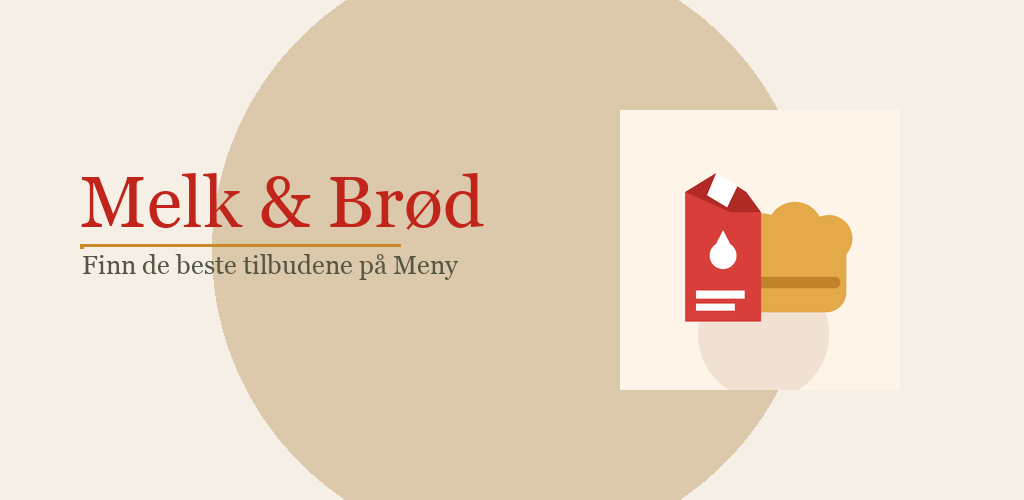
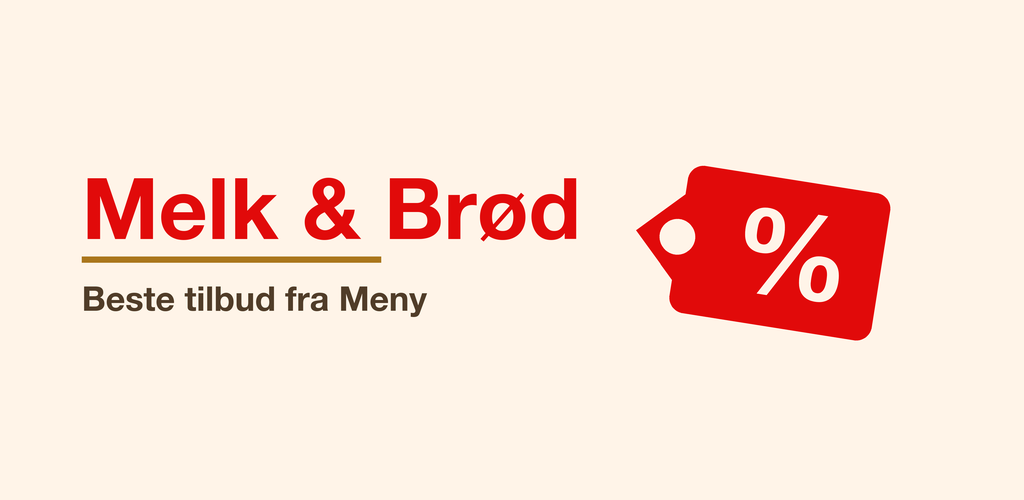
Regenerate Play Store feature graphic with new tag branding

diff --git a/scripts/gen_icon.py b/scripts/gen_icon.py
@@ -20,6 +20,7 @@ OUT_ANDROID_FG = "assets/images/android-icon-foreground.png"
 OUT_ANDROID_BG = "assets/images/android-icon-background.png"
 OUT_ANDROID_MONO = "assets/images/android-icon-monochrome.png"
 OUT_SPLASH = "assets/images/splash-icon.png"
+OUT_FEATURE = "assets/images/feature-graphic.png"
 
 RED      = (225, 10, 10)
 WHITE    = (255, 255, 255)
@@ -145,4 +146,49 @@ splash = Image.new("RGBA", (SIZE, SIZE), (0, 0, 0, 0))
 paste_centered(splash, build_tag_alpha(SIZE, color=RED))
 save_downsampled(splash, OUT_SPLASH, mode="RGBA")
 
-print(f"Saved:\n  {OUT}\n  {OUT_512}\n  {OUT_ANDROID_FG}\n  {OUT_ANDROID_BG}\n  {OUT_ANDROID_MONO}\n  {OUT_SPLASH}")
+# 6. Play Store feature graphic (1024 × 500). Cream bg, title left, red tag right.
+FG_W = 1024
+FG_H = 500
+FG_SCALE = 4
+FG_SIZE = FG_H * FG_SCALE  # work at 4x for crisp edges
+feature_full = Image.new("RGBA", (FG_W * FG_SCALE, FG_H * FG_SCALE), (255, 244, 232, 255))
+fdraw = ImageDraw.Draw(feature_full)
+
+title_font = get_font(int(FG_H * 0.17 * FG_SCALE))
+tagline_font = get_font(int(FG_H * 0.068 * FG_SCALE))
+
+title = "Melk & Brød"
+tagline = "Beste tilbud fra Meny"
+
+title_bbox = fdraw.textbbox((0, 0), title, font=title_font)
+title_w = title_bbox[2] - title_bbox[0]
+title_h = title_bbox[3] - title_bbox[1]
+
+tagline_bbox = fdraw.textbbox((0, 0), tagline, font=tagline_font)
+tagline_h = tagline_bbox[3] - tagline_bbox[1]
+
+text_x = int(FG_W * 0.08 * FG_SCALE)
+text_block_h = title_h + int(FG_H * 0.10 * FG_SCALE) + tagline_h
+text_y = (FG_H * FG_SCALE - text_block_h) // 2 - title_bbox[1]
+
+fdraw.text((text_x, text_y), title, font=title_font, fill=RED + (255,))
+
+# Underline accent
+underline_y = text_y + title_bbox[3] + int(FG_H * 0.03 * FG_SCALE)
+fdraw.rectangle([text_x, underline_y, text_x + int(title_w * 0.6),
+                 underline_y + int(FG_H * 0.012 * FG_SCALE)], fill=(170, 118, 28, 255))
+
+# Tagline
+tagline_y = underline_y + int(FG_H * 0.06 * FG_SCALE) - tagline_bbox[1]
+fdraw.text((text_x, tagline_y), tagline, font=tagline_font, fill=(80, 60, 40, 255))
+
+# Tag on the right (sized so it doesn't overlap the title block)
+tag_layer = build_tag_alpha(int(FG_H * 0.62 * FG_SCALE), color=RED)
+tag_x = int(FG_W * FG_SCALE - tag_layer.width - FG_H * 0.06 * FG_SCALE)
+tag_y = (FG_H * FG_SCALE - tag_layer.height) // 2
+feature_full.paste(tag_layer, (tag_x, tag_y), tag_layer)
+
+feature_final = feature_full.resize((FG_W, FG_H), Image.LANCZOS).convert("RGB")
+feature_final.save(OUT_FEATURE, "PNG", optimize=True)
+
+print(f"Saved:\n  {OUT}\n  {OUT_512}\n  {OUT_ANDROID_FG}\n  {OUT_ANDROID_BG}\n  {OUT_ANDROID_MONO}\n  {OUT_SPLASH}\n  {OUT_FEATURE}")
